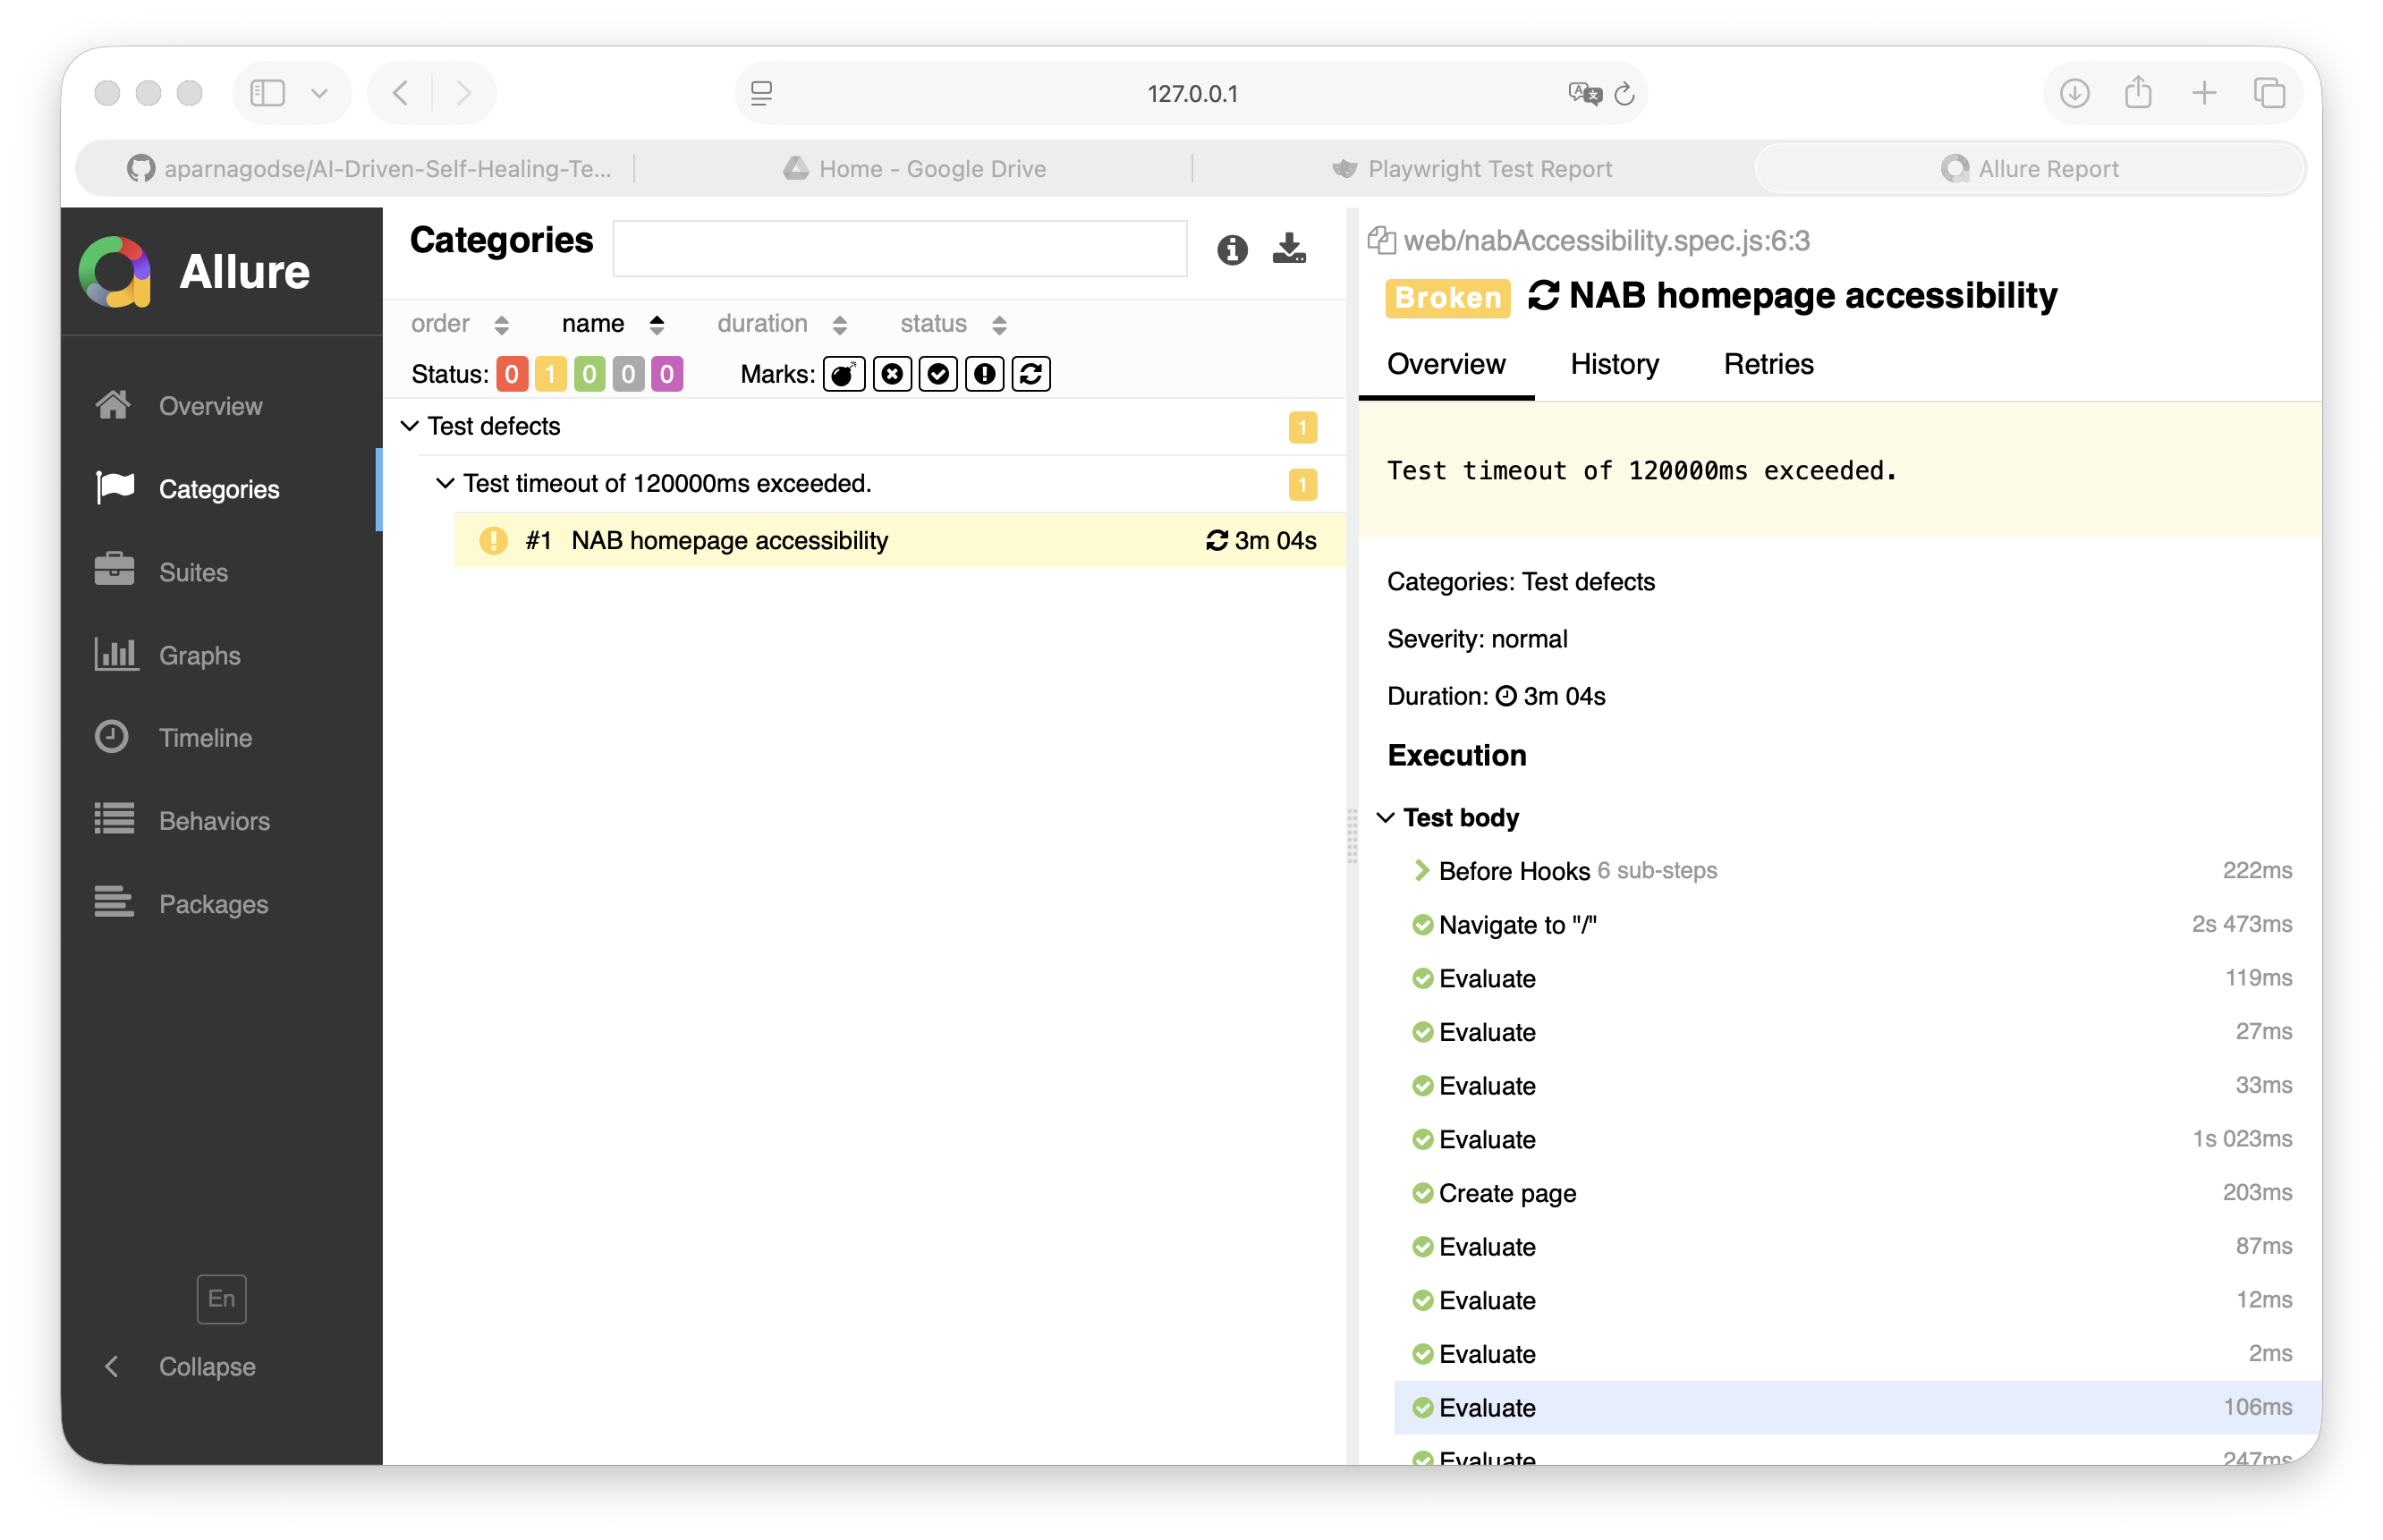
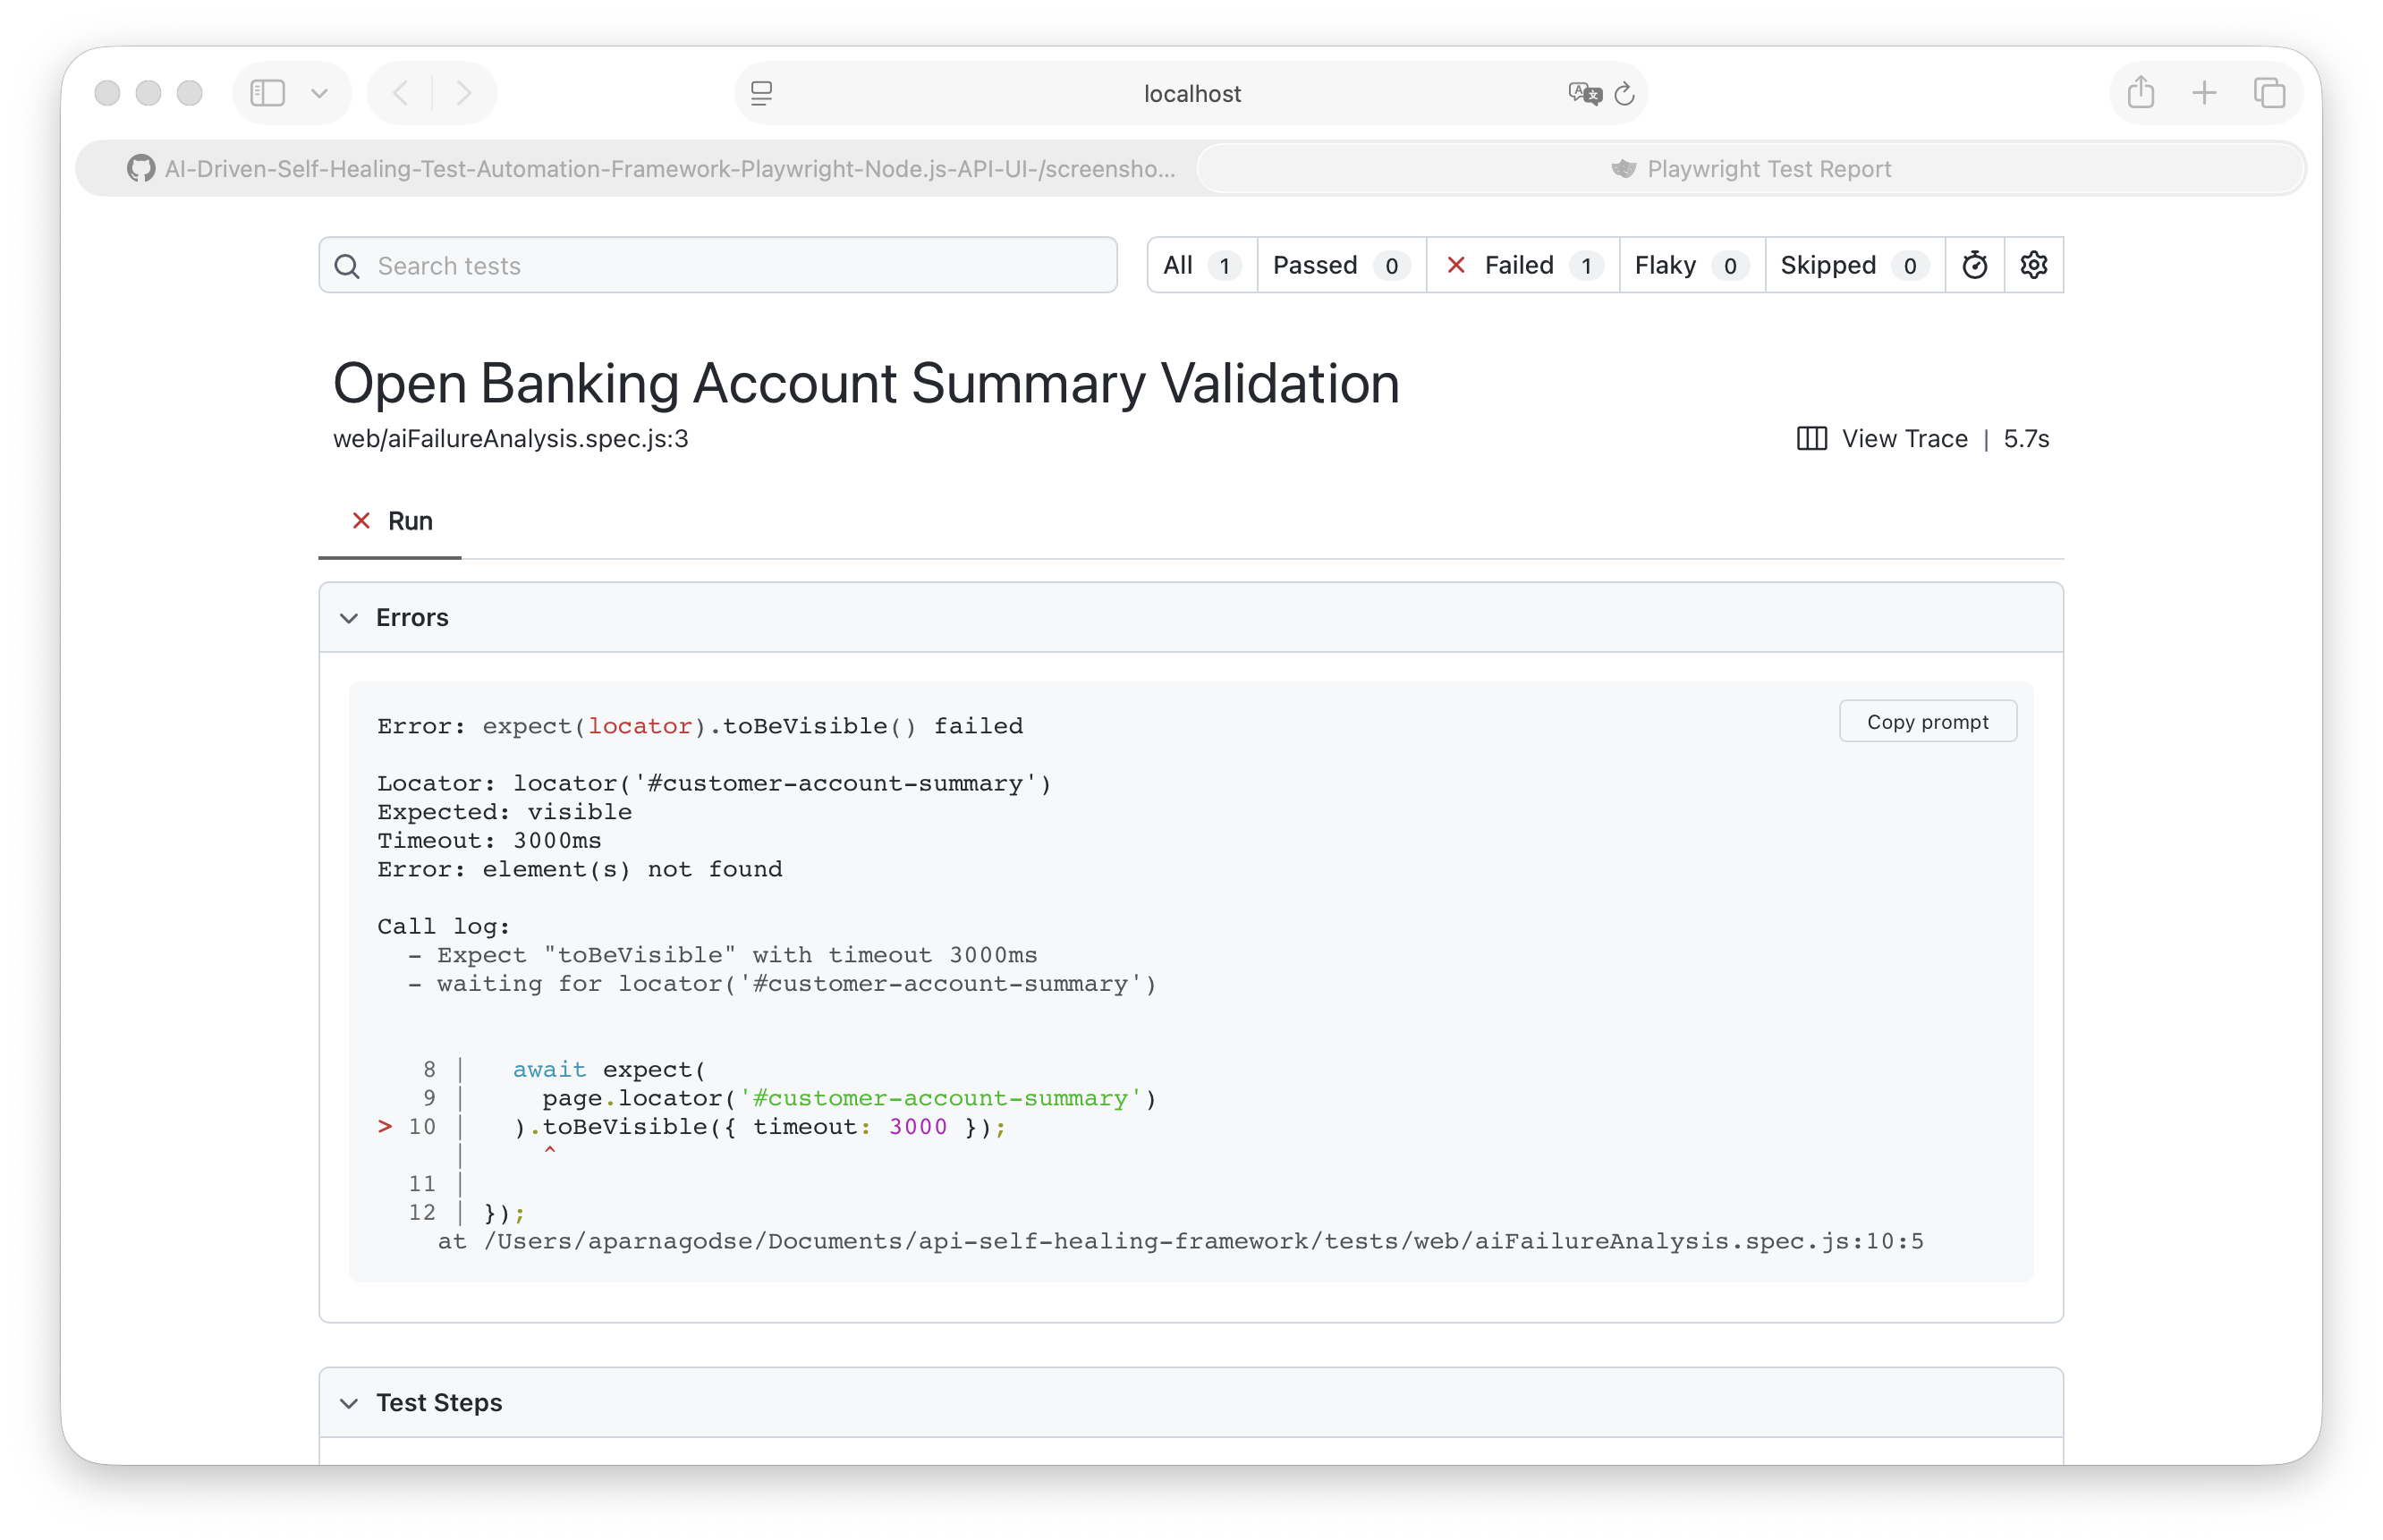
Finalized enterprise Open Banking QE framework demo

diff --git a/tests/web/aiFailureAnalysis.spec.js b/tests/web/aiFailureAnalysis.spec.js
@@ -1,0 +1,12 @@
+import { test, expect } from '@playwright/test';
+
+test('Open Banking Account Summary Validation', async ({ page }) => {
+
+  await page.goto('https://www.nab.com.au/');
+
+  // Intentional failure to demonstrate AI-assisted failure analysis
+  await expect(
+    page.locator('#customer-account-summary')
+  ).toBeVisible({ timeout: 3000 });
+
+});